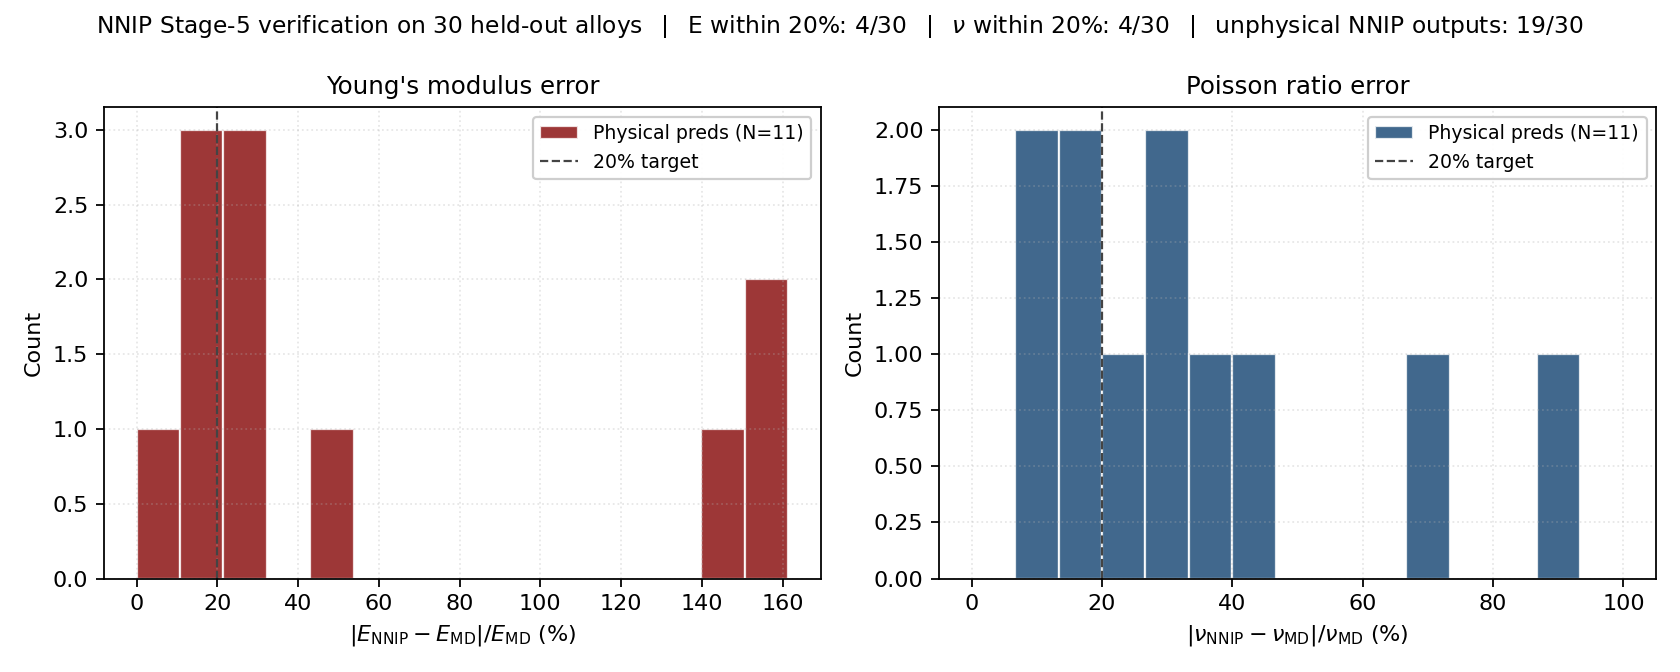
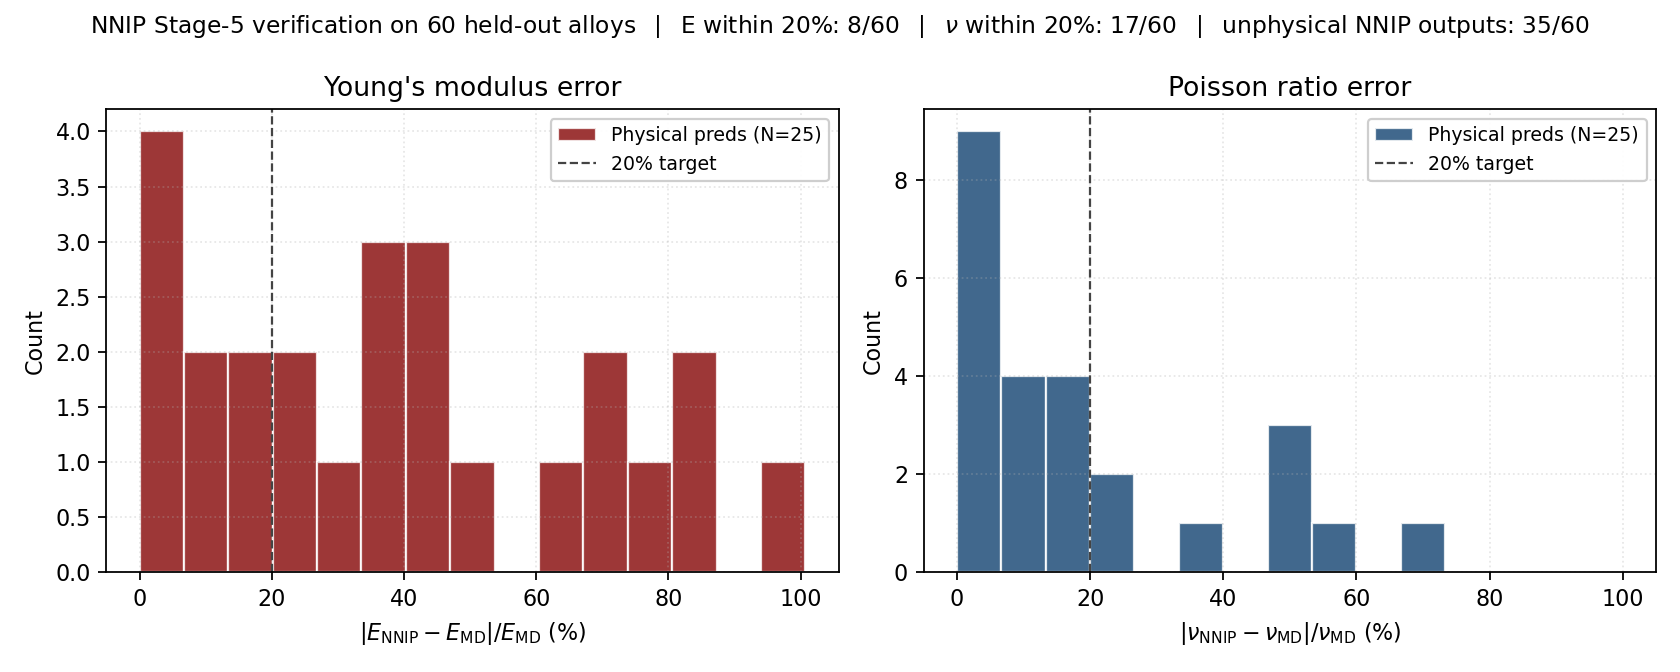
report: updated

Changed region(s): [[0.0, 0.0938, 0.9905, 0.9688], [0.0619, 0.0, 0.9595, 0.0625]]

diff --git a/reports/finalPresentation/generate_literature_figure.py b/reports/finalPresentation/generate_literature_figure.py
@@ -179,10 +179,67 @@ def write_aluminium_table(data: dict, out: Path) -> None:
     print(f"[literature] wrote {out}")
 
 
+def write_aluminium_detail_table(data: dict, out: Path) -> None:
+    """Aluminium resolved to individual alloy grades, with E and nu MAPE.
+
+    One row per AA grade (tempers of a grade share a composition and so a
+    prediction; ``N`` counts the datasheet entries collapsed into the row),
+    grouped under italic per-series subheaders. Used by the final report only.
+    """
+    records = data["materials"]
+    meam_on = data["metadata"].get("meam_enabled", True)
+    al = [r for r in records if r["family"] == "aluminium"]
+
+    def grade(rec: dict) -> str | None:
+        m = re.search(r"(\d{4})", rec["name"])
+        return m.group(1) if m else None
+
+    def gser(g: str) -> str:
+        return f"{g[0]}xxx"
+
+    grades: dict[str, list[dict]] = {}
+    for r in al:
+        grades.setdefault(grade(r), []).append(r)
+
+    def row(label, rs, bold=False):
+        ml_e = _subset_mape(rs, "ML", "E_GPa")
+        ml_nu = _subset_mape(rs, "ML", "nu")
+        mm_e = _fmt(_subset_mape(rs, "MEAM", "E_GPa")) if meam_on else "---"
+        mm_nu = _fmt(_subset_mape(rs, "MEAM", "nu")) if meam_on else "---"
+        e_ml = f"\\textbf{{{_fmt(ml_e)}}}" if bold else _fmt(ml_e)
+        nu_ml = f"\\textbf{{{_fmt(ml_nu)}}}" if bold else _fmt(ml_nu)
+        return (f" {label} & {len(rs)} & {_fmt(_mean_lit_E(rs))} "
+                f"& {e_ml} & {mm_e} & {nu_ml} & {mm_nu} \\\\")
+
+    lines = [
+        _HEADER,
+        "\\begin{tabular}{lrrcccc}",
+        "\\toprule",
+        " & & & \\multicolumn{2}{c}{$E$ MAPE (\\%)} "
+        "& \\multicolumn{2}{c}{$\\nu$ MAPE (\\%)} \\\\",
+        "\\cmidrule(lr){4-5}\\cmidrule(lr){6-7}",
+        " Alloy & $N$ & $\\langle E_\\mathrm{lit}\\rangle$ & ML & MEAM & ML & MEAM \\\\",
+    ]
+    last = None
+    for g, rs in sorted(grades.items(), key=lambda kv: (gser(kv[0]), kv[0])):
+        s = gser(g)
+        if s != last:
+            lines.append("\\midrule")
+            lines.append(f" \\multicolumn{{7}}{{l}}{{\\itshape {s} series}} \\\\")
+            last = s
+        lines.append(row(f"\\quad {g}", rs))
+    lines.append("\\midrule")
+    lines.append(row("\\textbf{All aluminium}", al, bold=True))
+    lines += ["\\bottomrule", "\\end{tabular}", ""]
+    out.write_text("\n".join(lines))
+    print(f"[literature] wrote {out}")
+
+
 def main() -> None:
     data = _load()
     write_family_table(data, SEC_DIR / "_auto_literature_family.tex")
     write_aluminium_table(data, SEC_DIR / "_auto_literature_al.tex")
+    write_aluminium_detail_table(data, SEC_DIR / "_auto_literature_al_detail.tex")
 
 
 if __name__ == "__main__":

diff --git a/reports/finalReport/sections/introduction.tex b/reports/finalReport/sections/introduction.tex
@@ -30,7 +30,55 @@ hard physical constraint that the simulations must respect. A cubic crystal is
 only mechanically stable when $C_{11}>C_{12}$, the Born--Cauchy condition, and
 a potential that violates it describes a solid that would spontaneously shear
 apart. This single inequality reappears as the stability filter throughout the
-pipeline.
+pipeline. Figure~\ref{fig:elastic_def} sketches the two deformations that
+define $E$ and $\nu$ and writes the cubic-crystal reduction out explicitly.
+
+\begin{figure}[htbp]
+	\centering
+	\begin{minipage}[b]{0.46\linewidth}
+		\centering
+		{\small\textbf{$E$: resistance to stretching}}\\[3pt]
+		\begin{tikzpicture}[>=Stealth, line width=0.8pt, font=\scriptsize]
+			\useasboundingbox (-0.4,-1.15) rectangle (3.9,1.15);
+			\draw[gray!70] (0,-0.55) -- (0,0.55);
+			\foreach \y in {-0.5,-0.3,...,0.55}{\draw[gray!55] (0,\y) -- (-0.18,\y-0.18);}
+			\draw[BrickRed, fill=BrickRed!8] (0,-0.3) rectangle (2.7,0.3);
+			\draw[gray!65, dashed] (2.0,-0.5) -- (2.0,0.5);
+			\draw[->, very thick, BrickRed] (2.7,0) -- (3.6,0) node[right]{$F$};
+			\draw[<->, gray!70] (0,-0.68) -- (2.0,-0.68) node[midway,below]{$L$};
+			\draw[<->, BrickRed] (2.0,0.62) -- (2.7,0.62) node[midway,above]{$\Delta L$};
+		\end{tikzpicture}\\[3pt]
+		{\footnotesize$E = \dfrac{\sigma}{\varepsilon} = \dfrac{F/A}{\Delta L/L}$}
+	\end{minipage}\hfill
+	\begin{minipage}[b]{0.46\linewidth}
+		\centering
+		{\small\textbf{$\nu$: sideways thinning when pulled}}\\[3pt]
+		\begin{tikzpicture}[>=Stealth, line width=0.8pt, font=\scriptsize]
+			\useasboundingbox (-1.55,-1.2) rectangle (1.55,1.2);
+			\draw[gray!60, dashed] (-0.62,-0.55) rectangle (0.62,0.55);
+			\draw[RoyalBlue, fill=RoyalBlue!8] (-0.40,-0.82) rectangle (0.40,0.82);
+			\draw[->, very thick, RoyalBlue] (0,0.82) -- (0,1.18) node[above]{$F$};
+			\draw[->, very thick, RoyalBlue] (0,-0.82) -- (0,-1.18) node[below]{$F$};
+			\draw[->, BrickRed] (-0.62,0) -- (-0.42,0);
+			\draw[->, BrickRed] (0.62,0) -- (0.42,0);
+		\end{tikzpicture}\\[3pt]
+		{\footnotesize$\nu = -\dfrac{\varepsilon_\mathrm{lat}}{\varepsilon_\mathrm{axial}}$}
+	\end{minipage}
+
+	\medskip
+	\setlength{\fboxsep}{6pt}%
+	\fbox{$\displaystyle E = \frac{(C_{11}-C_{12})(C_{11}+2C_{12})}{C_{11}+C_{12}},\qquad
+	\nu = \frac{C_{12}}{C_{11}+C_{12}},\qquad C_{11}>C_{12}\ \text{(Born--Cauchy)}$}
+
+	\caption{The two elastic moduli this work predicts. \emph{Left:} a uniaxial
+	force $F$ stretches a bar by $\Delta L$, and the stiffness
+	$E=\sigma/\varepsilon$ is the stress-to-strain ratio. \emph{Right:} the same
+	axial pull makes the block contract laterally, and $\nu$ is the negated
+	ratio of lateral to axial strain. For a cubic crystal both reduce to the two
+	independent stiffness constants $C_{11}$ and $C_{12}$ (boxed), and mechanical
+	stability requires $C_{11}>C_{12}$.}
+	\label{fig:elastic_def}
+\end{figure}
 
 Table~\ref{tab:applications} gives a sense of the range these constants span
 across real structural materials, from a soft magnesium casting alloy near

diff --git a/reports/finalReport/sections/external_validation.tex b/reports/finalReport/sections/external_validation.tex
@@ -4,7 +4,7 @@
 The internal checks so far compare the surrogates against the project's own MD
 output. The real test is experiment. Both the composition surrogate of
 Section~\ref{sec:comp_nn} and the refit MEAM potential of
-Section~\ref{sec:nnip} were run on 43 named alloys whose elements the merged
+Section~\ref{sec:nnip} were run on 42 named alloys whose elements the merged
 basis covers, and the predicted $(E,\nu)$ were compared against published
 elastic data from ASM and MatWeb \citep{asmmatweb}. Mean absolute percentage
 error (MAPE) is the figure of merit. Unphysical MEAM runs are excluded from
@@ -16,7 +16,7 @@ methods do well: the composition NN reaches $2.3\,\%$ MAPE on $E$ and the
 refit MEAM $7.4\,\%$, with $\nu$ within $4$ to $5\,\%$ for both. Moving off the
 aluminium domain, the two methods part ways. The composition NN degrades
 gently, staying near $12\,\%$ on titanium and only failing badly on the
-stainless and Ni--Fe alloys it has almost no training support for. The MEAM
+stainless alloys it has almost no training support for. The MEAM
 potential degrades steeply: its error on titanium and stainless runs into the
 hundreds of percent, which is the same instability seen on the held-out alloys
 in Section~\ref{sec:nnip}, now measured against experiment.
@@ -24,7 +24,7 @@ in Section~\ref{sec:nnip}, now measured against experiment.
 \begin{table}[htbp]
 	\centering
 	\caption{Validation against ASM/MatWeb experimental elastic data, by
-	material family ($N=43$ alloys). Values are MAPE in percent for the
+	material family ($N=42$ alloys). Values are MAPE in percent for the
 	composition NN (ML) and the refit MEAM potential. Unphysical MEAM runs are
 	excluded.}
 	\label{tab:lit_family}
@@ -43,10 +43,51 @@ composition leaves that region.
 
 \begin{table}[htbp]
 	\centering
-	\caption{Aluminium validation drilled down by AA series ($N=33$ of the 43
+	\caption{Aluminium validation drilled down by AA series ($N=33$ of the 42
 	alloys). $\langle E_\mathrm{lit}\rangle$ is the mean experimental Young's
 	modulus; the last two columns are $E$ MAPE for the composition NN (ML) and
 	the refit MEAM potential.}
 	\label{tab:lit_al}
 	\input{sections/_auto_literature_al}
+\end{table}
+
+Table~\ref{tab:lit_al_detail} resolves the same comparison to individual alloy
+grades. The composition surrogate is uniformly accurate on $E$: every grade in
+the 2xxx, 5xxx, and 7xxx series lands within $3\,\%$ and the 6xxx grades within
+$4\,\%$, with 2024 and 2017 the closest at $1.0$ and $1.2\,\%$. The refit MEAM
+is more scattered, from $3.1\,\%$ on 6061 to $13.2\,\%$ on 5083. Its largest
+errors fall on the higher-solute grades 5083, 2017, and 2219, where the Cu-,
+Mn-, and Mg-bearing cross-terms are the least constrained by the Stage~2
+sampling. The 6xxx series is the one place the physics-based potential matches
+or beats the surrogate on $E$: 6061 comes in at $3.1\,\%$ for MEAM against
+$3.8\,\%$ for the NN, because its dilute Al--Mg--Si chemistry sits closest to
+the well-covered single-element aluminium reference.
+
+The Poisson-ratio columns tell a complementary story. The surrogate holds
+$\nu$ between $2.2$ and $5.4\,\%$ across every grade, while the MEAM error
+swings from $0.1\,\%$ on 2017 to $7.2\,\%$ on 5083. Both models sit slightly
+high on $\nu$, near $0.34$ to $0.35$ against the datasheet $0.33$. For
+Al~7075, the running example, the surrogate stays within $2.6\,\%$ on $E$ and
+$2.8\,\%$ on $\nu$, while the refit MEAM reaches $10.2$ and $5.1\,\%$, so the
+data-driven route is the more reliable predictor for the design-target alloy.
+
+One caveat is built into the table. The $N$ column counts datasheet entries,
+which for a given grade are mostly different tempers of a single composition,
+for example 2024-O, 2024-T3, and 2024-T4. Heat treatment changes the
+microstructure but not the bulk composition, so both models return one
+prediction per grade and the experimental $E$ varies by at most $1$\,GPa across
+a grade's tempers. The comparison therefore measures how well composition alone
+fixes the elastic constants, not how either model would track a temper or
+precipitate state, which neither is built to capture.
+
+\begin{table}[htbp]
+	\centering
+	\caption{Aluminium validation resolved to individual alloy grades. $N$ is
+	the number of datasheet entries (tempers) per grade and
+	$\langle E_\mathrm{lit}\rangle$ their mean experimental Young's modulus in
+	GPa; the remaining columns are $E$ and $\nu$ MAPE in percent for the
+	composition NN (ML) and the refit MEAM potential. Unphysical MEAM runs are
+	excluded.}
+	\label{tab:lit_al_detail}
+	\input{sections/_auto_literature_al_detail}
 \end{table}

diff --git a/reports/finalReport/sections/nnip_optimization.tex b/reports/finalReport/sections/nnip_optimization.tex
@@ -1,4 +1,4 @@
-\subsection{Stage 5b --- NN-Driven MEAM Parameter Optimization}
+\subsection{Stage 5b: NN-Driven MEAM Parameter Optimization}
 \label{sec:nnip}
 
 Stage~5b is the part that closes the loop. It refits the cross-interaction
@@ -28,7 +28,7 @@ vector to the per-composition $(C_{11},C_{12})$ under a Huber loss
 \citep{tensorflow2015}. Predicting the stiffness constants rather than $\nu$,
 and using a robust loss, are the two lessons carried over from the composition
 surrogate of Section~\ref{sec:comp_nn}. The surrogate Huber loss falls from
-$1.0$ to about $0.16$ over $10^4$ optimizer steps
+$0.29$ to $0.105$ over roughly $2{,}300$ training steps
 (Figure~\ref{fig:nnip_loss}).
 
 \paragraph{Inverse optimization.}
@@ -48,34 +48,39 @@ An active-learning variant focuses the next sampling round on the parameter
 regions the surrogate is least sure about.
 
 \paragraph{Results.}
-The refit potential was validated on 30 held-out alloys by re-running them in
+The refit potential was validated on 60 held-out alloys by re-running them in
 LAMMPS and comparing against the MD targets. The outcome is honest but mixed
-(Figure~\ref{fig:nnip_errors}). Of the 30, only 11 pass the Born--Cauchy
-stability filter; the other 19 come out mechanically unstable
-($C_{11}<C_{12}$). Among the 11 stable alloys the median error is $23\,\%$ on
-$E$ and $26\,\%$ on $\nu$, and 4 fall within the $20\,\%$ tolerance on both.
-The instability is concentrated, as expected, in the non-aluminium chemistries
-where the Stage~2 sampling and the DFT reference are both thinnest. Inside the
-aluminium-rich region the refit holds up well, which the external validation
-of Section~\ref{sec:validation} quantifies. The gap on the unstable 19 is the
-clearest signal of where the method needs more work, and it sets the agenda in
-Section~\ref{sec:future}.
+(Figure~\ref{fig:nnip_errors}). Of the 60, 25 return a physical elastic
+response that clears the stability filter; the other 35 collapse to an
+unphysical result ($C_{11}<C_{12}$ or $\nu$ driven onto the $0.5$ singularity)
+and are rejected. Across the 25 stable alloys the mean error is $39.3\,\%$ on
+$E$ and $19.6\,\%$ on $\nu$ (medians $36\,\%$ and $11\,\%$), and 8 fall within
+the $20\,\%$ tolerance on both. The stable, in-tolerance cases cluster in the
+aluminium-rich region, while the collapses concentrate, as expected, in the
+non-aluminium chemistries where the Stage~2 sampling and the DFT reference are
+both thinnest. Inside the aluminium-rich region the refit holds up well, which
+the external validation of Section~\ref{sec:validation} quantifies. The gap on
+the 35 rejected alloys is the clearest signal of where the method needs more
+work, and it sets the agenda in Section~\ref{sec:future}.
 
 \begin{figure}[htbp]
 	\centering
 	\begin{minipage}[t]{0.48\textwidth}
 		\centering
 		\includegraphics[width=\textwidth]{figures/nnip_training_loss.png}
-		\caption{Surrogate Huber loss over $10^4$ optimizer steps, falling from
-		$1.0$ to about $0.16$.}
+		\caption{Surrogate Huber loss over $\sim$2{,}300 training steps, falling
+		from $0.29$ to $0.105$.}
 		\label{fig:nnip_loss}
 	\end{minipage}
 	\hfill
 	\begin{minipage}[t]{0.48\textwidth}
 		\centering
 		\includegraphics[width=\textwidth]{figures/nnip_verification_errors.png}
-		\caption{Verification error on the 30 held-out alloys, with a separate
-		bar for the runs rejected as mechanically unstable.}
+		\caption{Verification error over the 25 physical predictions among the
+		60 held-out alloys, for $E$ (left) and $\nu$ (right); the dashed line
+		marks the $20\,\%$ tolerance. Eight of the 25 land within tolerance on
+		$E$ and 17 on $\nu$; the 35 alloys with unphysical outputs are excluded
+		from the histograms.}
 		\label{fig:nnip_errors}
 	\end{minipage}
 \end{figure}

diff --git a/reports/finalReport/sections/_auto_dft_elements.tex b/reports/finalReport/sections/_auto_dft_elements.tex
@@ -5,20 +5,18 @@
 \label{tab:dft_elements}
 \begin{tabular}{llrrrll}
 \hline
- Element   & Lattice   &   $a_0$ (\AA) &   $E_\mathrm{coh}$ &      $B$ & $C_{11}$   & $C_{12}$   \\
+ Element   & Lattice   &   $a_0$ (\AA) &   $E_\mathrm{coh}$ &     $B$ & $C_{11}$   & $C_{12}$   \\
 \hline
- Mg        & HCP       &         3.177 &              1.483 &   47.800 & 78.926     & 32.237     \\
- Mo        & BCC       &         3.169 &             10.353 &  280.800 & 407.600    & 63.200     \\
- Al        & FCC       &         4.047 &              3.611 &   77.500 & 167.100    & 32.600     \\
- Cu        & FCC       &         3.639 &              3.857 &  138.500 & 135.100    & 127.500    \\
- Zn        & HCP       &         2.766 &              0.964 &   68.400 & ---        & ---        \\
- Ti        & HCP       &         2.915 &              6.284 &  114.500 & ---        & ---        \\
- Si        & DIAMOND   &         5.471 &              5.130 &   89.300 & ---        & ---        \\
- Fe        & BCC       &         2.831 &              5.166 &  316.200 & ---        & ---        \\
- Cr        & BCC       &         2.856 &              3.913 &  271.200 & ---        & ---        \\
- Mn        & BCC       &         2.829 &              3.734 &  161.200 & ---        & ---        \\
- Co        & HCP       &         2.437 &              5.595 & 1012.400 & ---        & ---        \\
- Ni        & FCC       &         3.477 &              4.722 &  236.600 & ---        & ---        \\
+ Mg        & HCP       &         3.177 &              1.483 &  47.800 & 78.926     & 32.237     \\
+ Mo        & BCC       &         3.169 &             10.353 & 280.800 & 407.600    & 63.200     \\
+ Al        & FCC       &         4.047 &              3.611 &  77.500 & 167.100    & 32.600     \\
+ Cu        & FCC       &         3.639 &              3.857 & 138.500 & 135.100    & 127.500    \\
+ Fe        & BCC       &         2.806 &              6.834 & 420.500 & 16.700     & 114.400    \\
+ Zn        & HCP       &         2.766 &              0.964 &  68.400 & ---        & ---        \\
+ Ti        & HCP       &         2.915 &              6.284 & 114.500 & ---        & ---        \\
+ Cr        & BCC       &         2.848 &              3.964 & 213.100 & 377.300    & 23.600     \\
+ Mn        & BCC       &         2.803 &              3.728 & 225.700 & 235.000    & 244.700    \\
+ Si        & DIAMOND   &         5.471 &              5.130 &  89.300 & ---        & ---        \\
 \hline
 \end{tabular}
 \end{table}

diff --git a/reports/finalReport/sections/_auto_meam_init.tex b/reports/finalReport/sections/_auto_meam_init.tex
@@ -11,14 +11,12 @@
  Mo        & BCC       &         3.169 &                  10.353 &               15.911 &      4.924 \\
  Al        & FCC       &         4.047 &                   3.611 &               16.569 &      4.470 \\
  Cu        & FCC       &         3.639 &                   3.857 &               12.051 &      4.930 \\
+ Fe        & BCC       &         2.806 &                   6.834 &               11.046 &      6.179 \\
  Zn        & HCP       &         2.766 &                   0.964 &               29.931 &     10.921 \\
  Ti        & HCP       &         2.915 &                   6.284 &               35.022 &      5.987 \\
+ Cr        & BCC       &         2.848 &                   3.964 &               11.549 &      5.906 \\
+ Mn        & BCC       &         2.803 &                   3.728 &               11.012 &      6.120 \\
  Si        & DIAMOND   &         5.471 &                   5.130 &               20.464 &      4.473 \\
- Fe        & BCC       &         2.831 &                   5.166 &               11.347 &      6.246 \\
- Cr        & BCC       &         2.856 &                   3.913 &               11.643 &      6.733 \\
- Mn        & BCC       &         2.829 &                   3.734 &               11.317 &      5.239 \\
- Co        & HCP       &         2.437 &                   5.595 &               20.468 &     14.424 \\
- Ni        & FCC       &         3.477 &                   4.722 &               10.508 &      5.439 \\
 \hline
 \end{tabular}
 \end{table}

diff --git a/reports/finalReport/sections/_auto_literature_family.tex b/reports/finalReport/sections/_auto_literature_family.tex
@@ -8,8 +8,7 @@
  Aluminium & 33 & 2.3 & 7.4 & 4.0 & 4.5 \\
  Titanium & 6 & 11.6 & 140.0 & 13.2 & 14.6 \\
  Stainless & 3 & 69.6 & 324.1 & 75.5 & 47.3 \\
- Ni--Fe (A-286) & 1 & 107.0 & --- & --- & --- \\
 \midrule
- \textbf{Overall} & 43 & \textbf{10.8} & 42.2 & \textbf{7.2} & 7.1 \\
+ \textbf{Overall} & 42 & \textbf{8.5} & 42.2 & \textbf{7.2} & 7.1 \\
 \bottomrule
 \end{tabular}

diff --git a/reports/finalPresentation/2587772-meam-nn-final.tex b/reports/finalPresentation/2587772-meam-nn-final.tex
@@ -49,7 +49,7 @@
 % --- Title ---
 \title[MEAM-NN Final]{Automated Construction of Multi-Element\\MEAM Interatomic Potentials}
 \subtitle{A DFT-Informed Neural-Network Optimization Framework}
-\author{Can Durmaz}
+\author[Can Durmaz]{Can Durmaz\\[2pt]{\small Advisor: Prof.\ Dr.\ Hande Toffoli}}
 \institute{METU, Department of Physics}
 \date{PHYS\,400 Final Presentation}
 \titlegraphic{\includegraphics[height=1.5cm]{metu.png}}

diff --git a/reports/finalReport/sections/abstract.tex b/reports/finalReport/sections/abstract.tex
@@ -18,7 +18,7 @@ Adam optimizer to refit the cross-interaction parameters. A separate composition
 surrogate that maps element fractions straight to $(C_{11},C_{12})$ runs
 alongside Stage~2 as a fast consistency check on the LAMMPS dataset and as a
 ready predictor for new compositions. All five stages now run end to end. On
-43 named alloys with experimental data from ASM and MatWeb, both surrogates
+42 named alloys with experimental data from ASM and MatWeb, both surrogates
 reproduce the aluminium Young's modulus to within a few percent (composition
 NN $2.3\,\%$, refitted MEAM $7.4\,\%$); accuracy degrades once the
 composition leaves the aluminium-rich region the training data covers most

diff --git a/reports/finalReport/sections/composition_nn.tex b/reports/finalReport/sections/composition_nn.tex
@@ -1,4 +1,4 @@
-\subsection{Stage 5a --- Auxiliary Composition Surrogate}
+\subsection{Stage 5a: Auxiliary Composition Surrogate}
 \label{sec:comp_nn}
 
 This is the dashed side-branch in Figure~\ref{fig:pipeline}. It is separate

diff --git a/reports/finalReport/sections/future_outlook.tex b/reports/finalReport/sections/future_outlook.tex
@@ -12,7 +12,7 @@ it.
 \subsection{Upcoming Objectives}
 
 \paragraph{A better-posed optimization.}
-The refit currently moves on the order of $200$ cross-term parameters at once,
+The refit currently moves all $84$ free cross-term parameters at once,
 which is more freedom than the elastic targets can constrain. The plan is to
 restrict the search to the single-element-anchored cross-terms that actually
 matter, ranked by a Sobol sensitivity analysis, which cuts the active

diff --git a/reports/finalReport/sections/stage1_config.tex b/reports/finalReport/sections/stage1_config.tex
@@ -1,4 +1,4 @@
-\subsection{Stage 1 --- Configuration Generation}
+\subsection{Stage 1: Configuration Generation}
 \label{sec:stage1}
 
 The configuration generator produces randomized alloy compositions over the